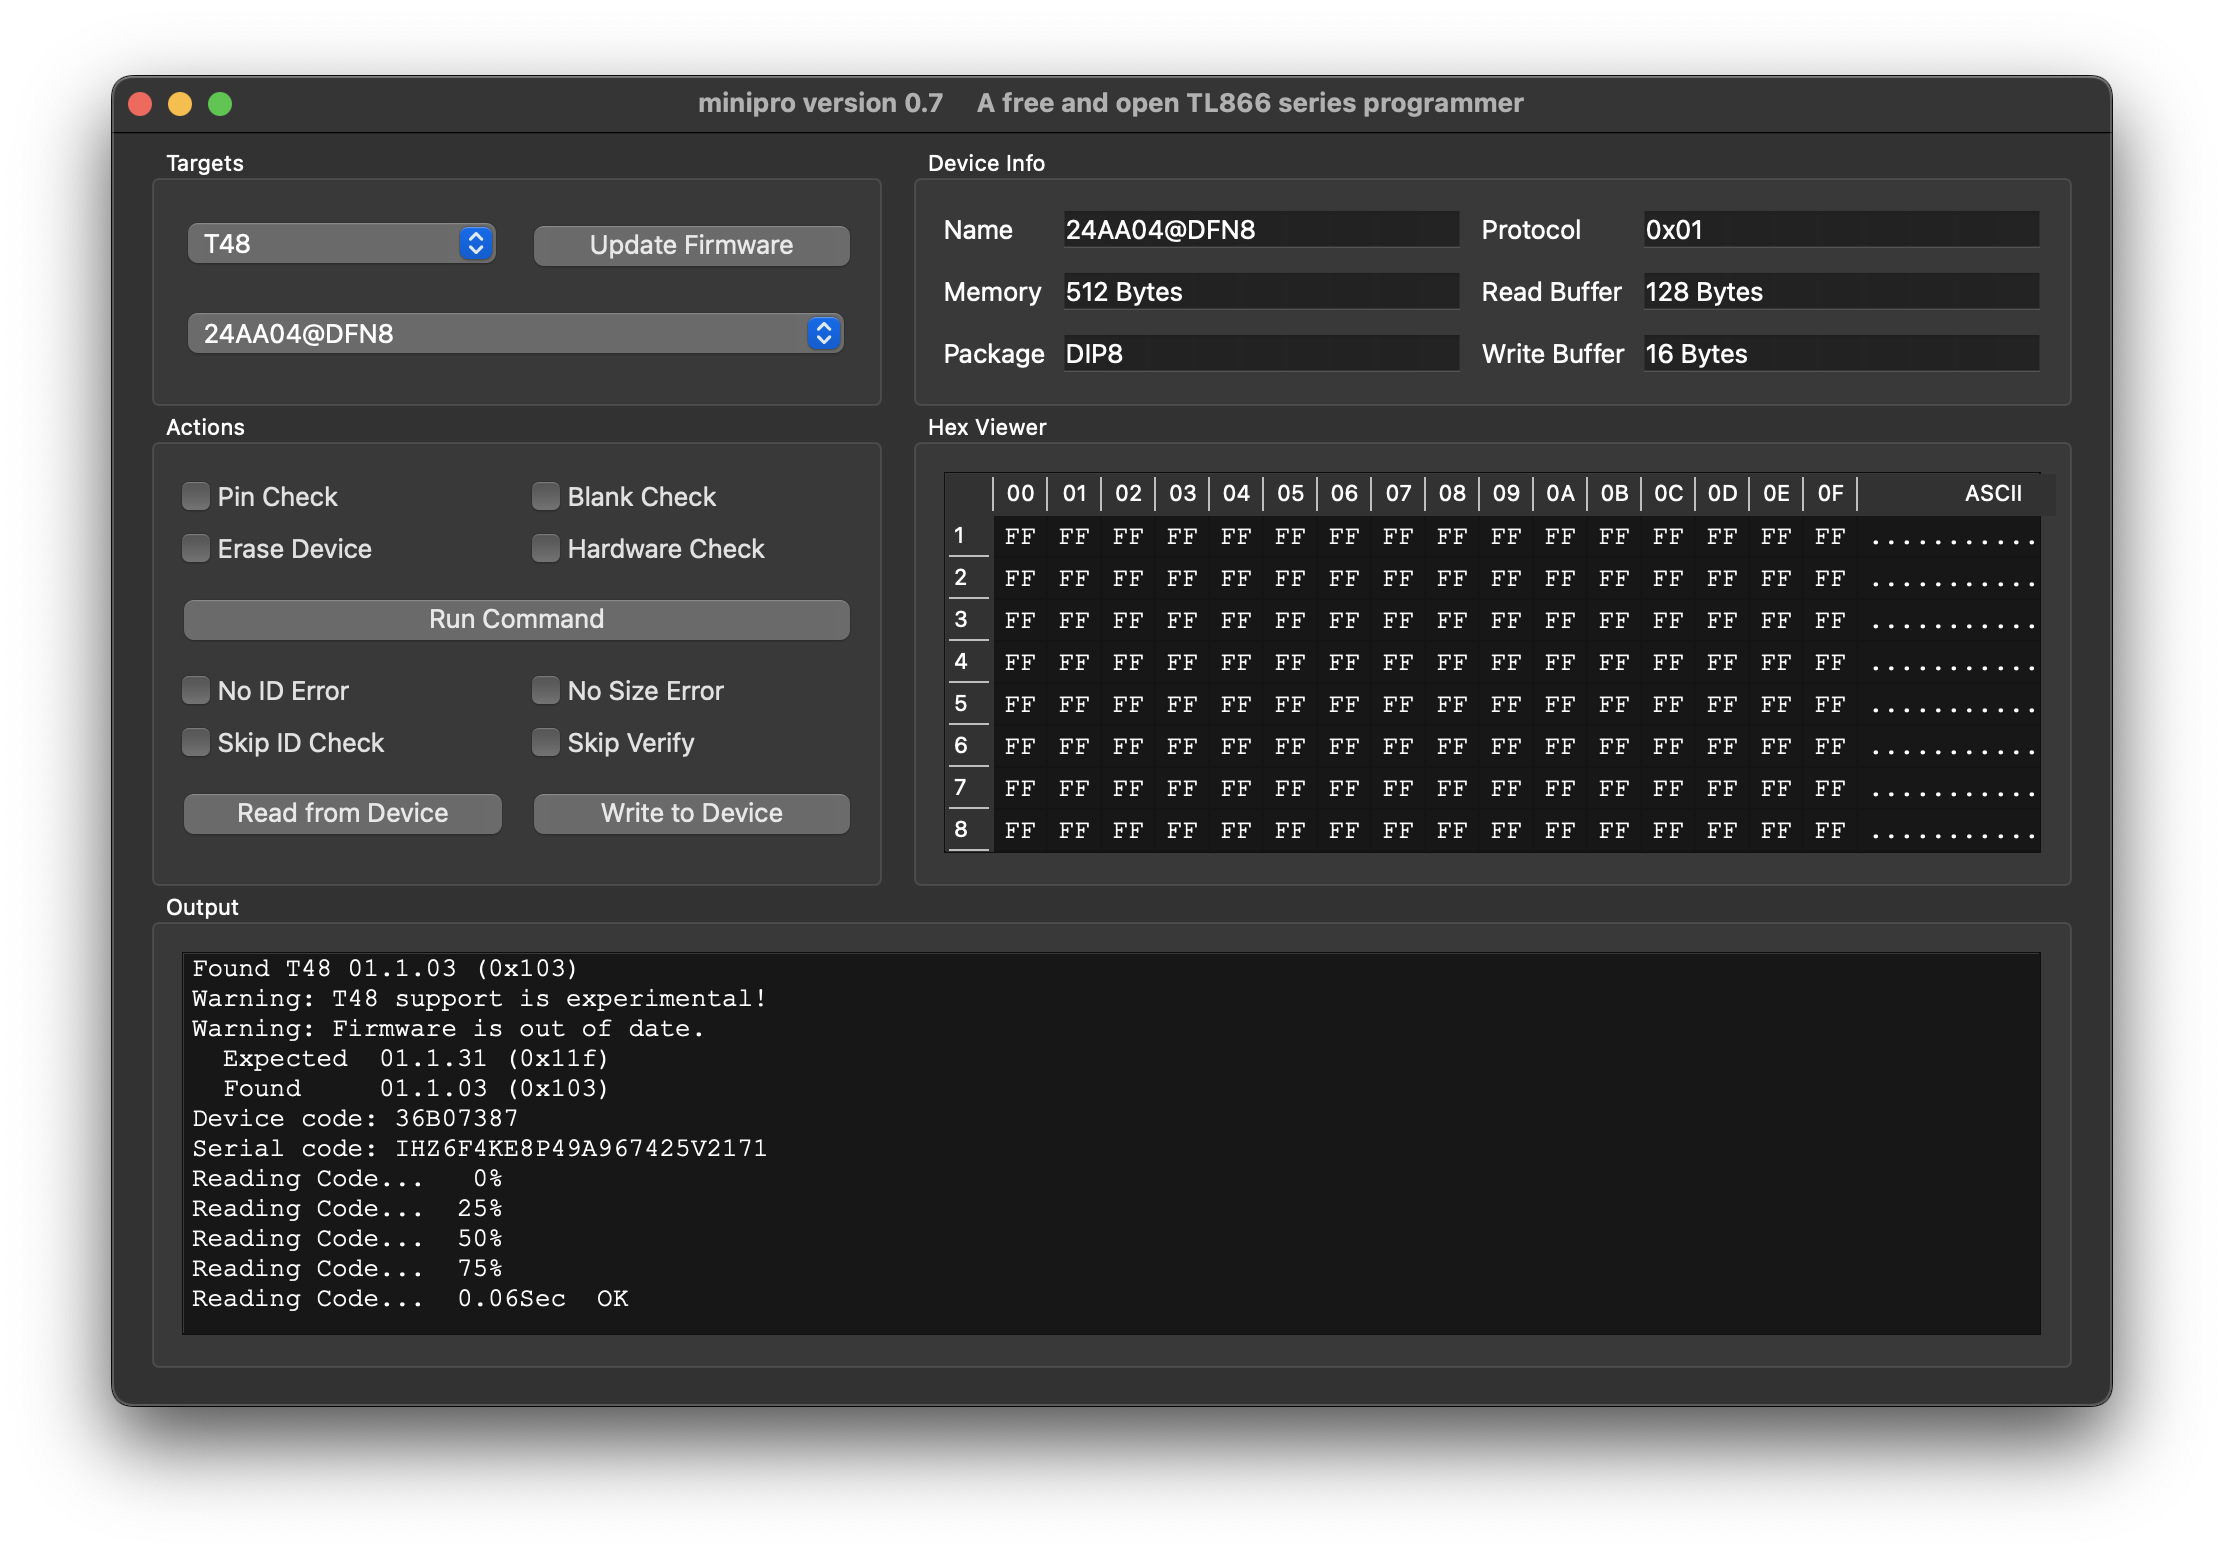
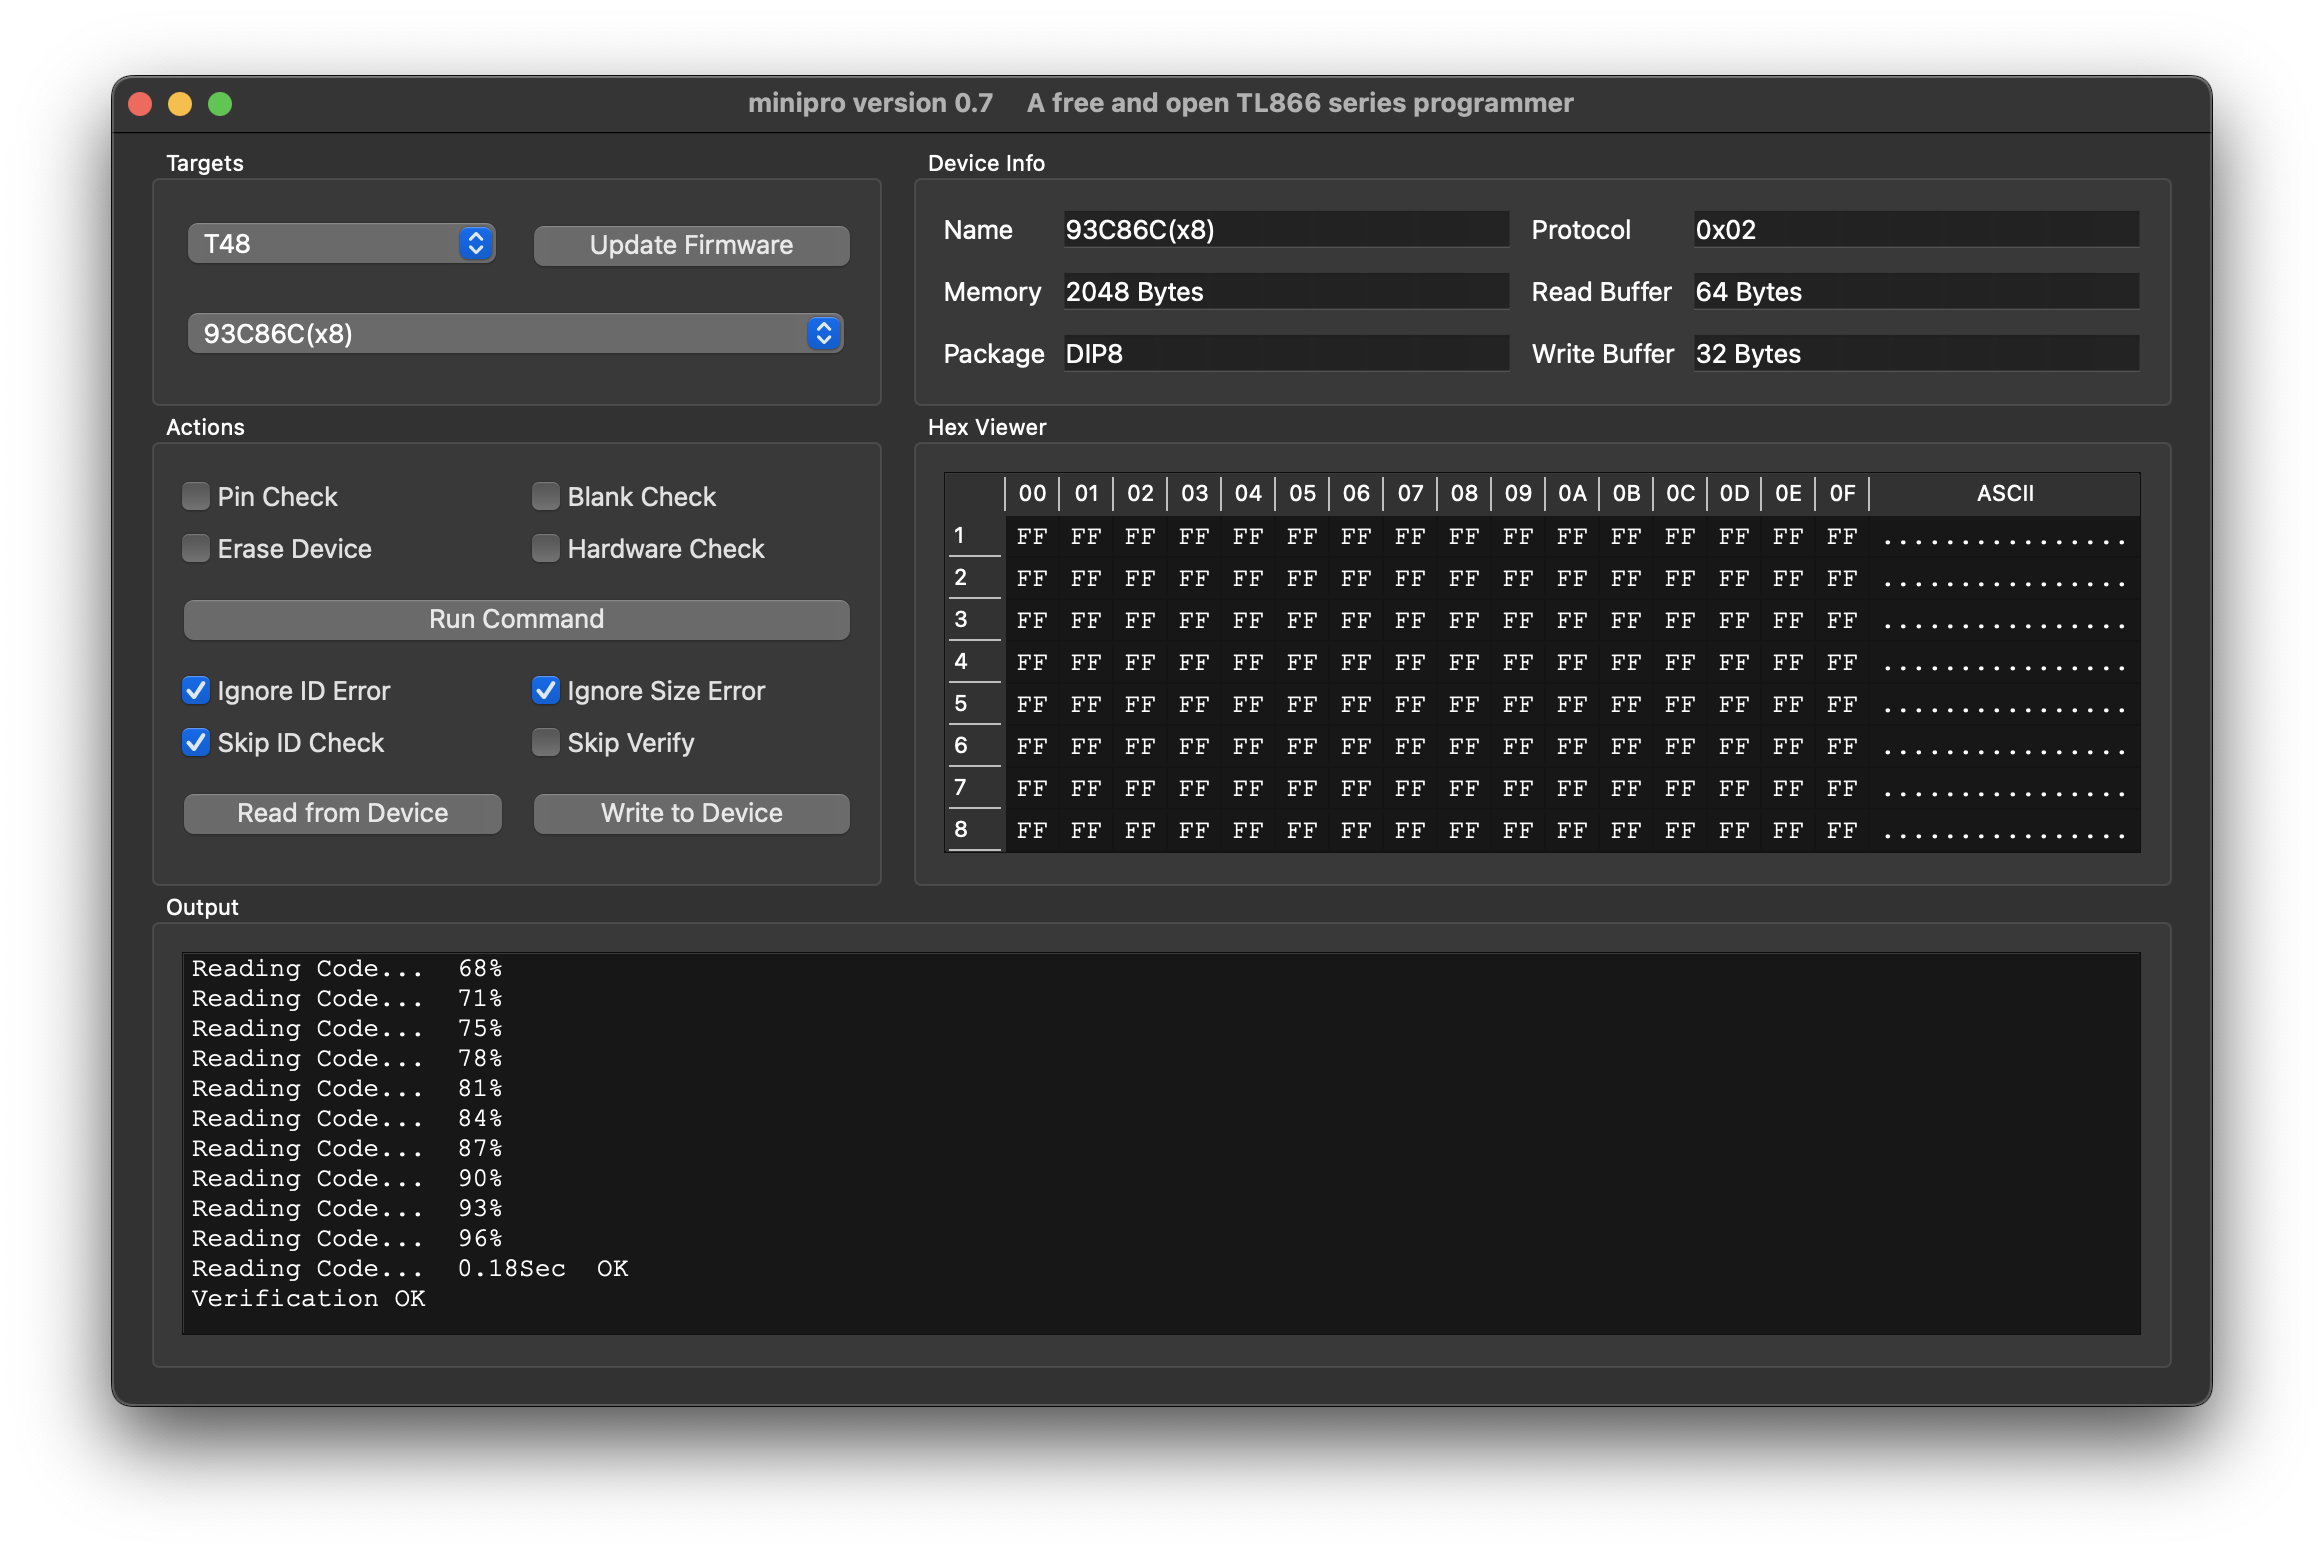
Custom arguments

diff --git a/src/MainWindow.cpp b/src/MainWindow.cpp
@@ -4,8 +4,10 @@ MainWindow::MainWindow(QWidget *parent) : QMainWindow(parent) {
   initializer();
 
   auto *groupBox = new QGroupBox(tr("Targets"));
+  groupBox->setAlignment(Qt::AlignTop);
   auto *vbox = new QGridLayout;
-  vbox->addWidget(button_programmer, 0, 0);
+  vbox->addWidget(button_programmer, 0, 0, Qt::AlignTop);
+  connect(button_programmer, SIGNAL (activated(int)), this, SLOT (check_for_programmer()));
   vbox->addWidget(button_update, 0, 1);
   connect(button_update, SIGNAL (released()), this, SLOT (update_firmware()));
   vbox->addWidget(button_device, 1, 0, 1, 0);
@@ -14,10 +16,11 @@ MainWindow::MainWindow(QWidget *parent) : QMainWindow(parent) {
   layout->addWidget(groupBox, 0, 0);
 
   auto *groupBox3 = new QGroupBox(tr("Actions"));
+  groupBox3->setAlignment(Qt::AlignTop);
   auto *vbox3 = new QGridLayout;
-  vbox3->addWidget(pin_check, 0, 0);
+  vbox3->addWidget(pin_check, 0, 0, Qt::AlignTop);
   vbox3->addWidget(blank_check, 0, 1);
-  vbox3->addWidget(erase_device, 1, 0);
+  vbox3->addWidget(erase_device, 1, 0, Qt::AlignTop);
   vbox3->addWidget(hardware_check, 1, 1);
   vbox3->addWidget(button_run_command, 2, 0, 1, 0);
   connect(button_run_command, SIGNAL (released()), this, SLOT (run_command()));
@@ -96,9 +99,9 @@ void MainWindow::initializer() {
   button_read = new QPushButton("Read from Device");
   button_update = new QPushButton("Update Firmware");
 
-  no_id_error = new QCheckBox("No ID Error");
+  no_id_error = new QCheckBox("Ignore ID Error");
   skip_id = new QCheckBox("Skip ID Check");
-  no_size_error = new QCheckBox("No Size Error");
+  no_size_error = new QCheckBox("Ignore Size Error");
   skip_verify = new QCheckBox("Skip Verify");
   pin_check = new QCheckBox("Pin Check");
   blank_check = new QCheckBox("Blank Check");
@@ -160,15 +163,18 @@ void MainWindow::run_async_process(const QStringList &process_arguments,
           SLOT(read_device_output(int, QProcess::ExitStatus)));
 
   status_view->appendPlainText("[Output]: ");
+  status_view->ensureCursorVisible();
   async_process->start("minipro", process_arguments);
 }
 
 void MainWindow::async_process_err_output() {
   status_view->appendPlainText(async_process->readAllStandardError().trimmed().replace("\u001B[K", ""));
+  status_view->ensureCursorVisible();
 }
 
 void MainWindow::async_process_std_output() {
   status_view->appendPlainText(async_process->readAllStandardOutput().trimmed().replace("\u001B[K", ""));
+  status_view->ensureCursorVisible();
 }
 
 QStringList MainWindow::parse_checkboxes() {
@@ -353,12 +359,6 @@ void MainWindow::write_device() {
     run_async_process(arguments);
   }
 }
-
-//void MainWindow::erase_device() {
-//  QStringList arguments;
-//  arguments << "-p" << device << "-E";
-//  run_async_process(arguments);
-//}
 
 void MainWindow::update_firmware() {
   QString fileName = QFileDialog::getOpenFileName(this);
